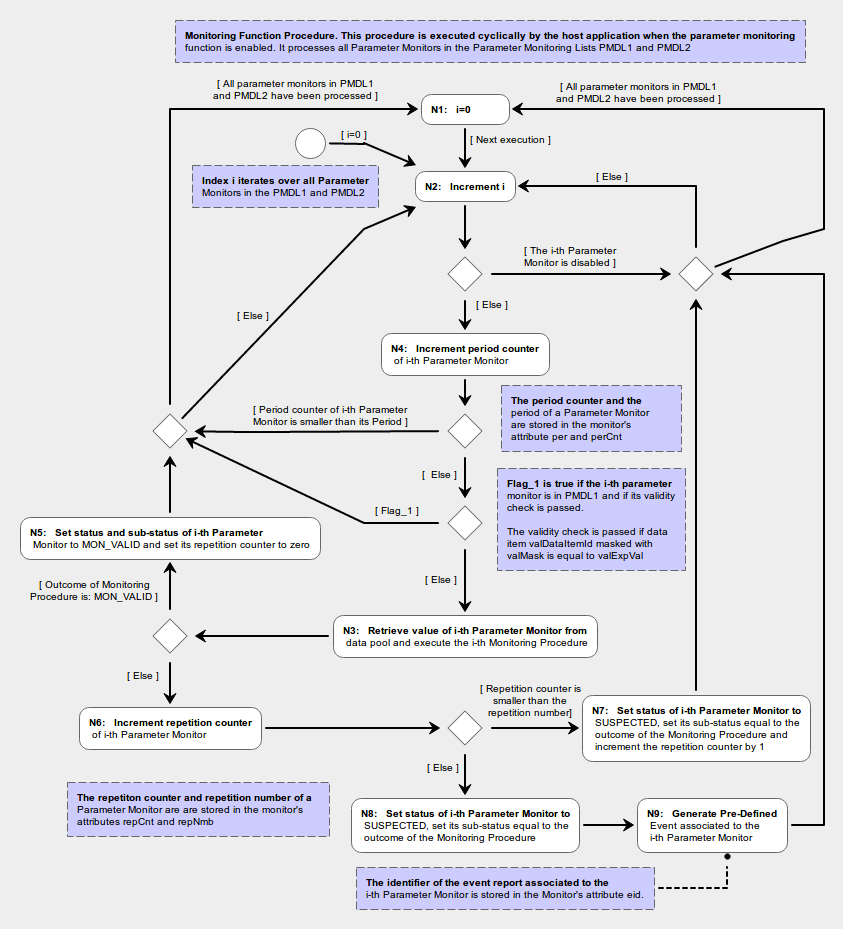
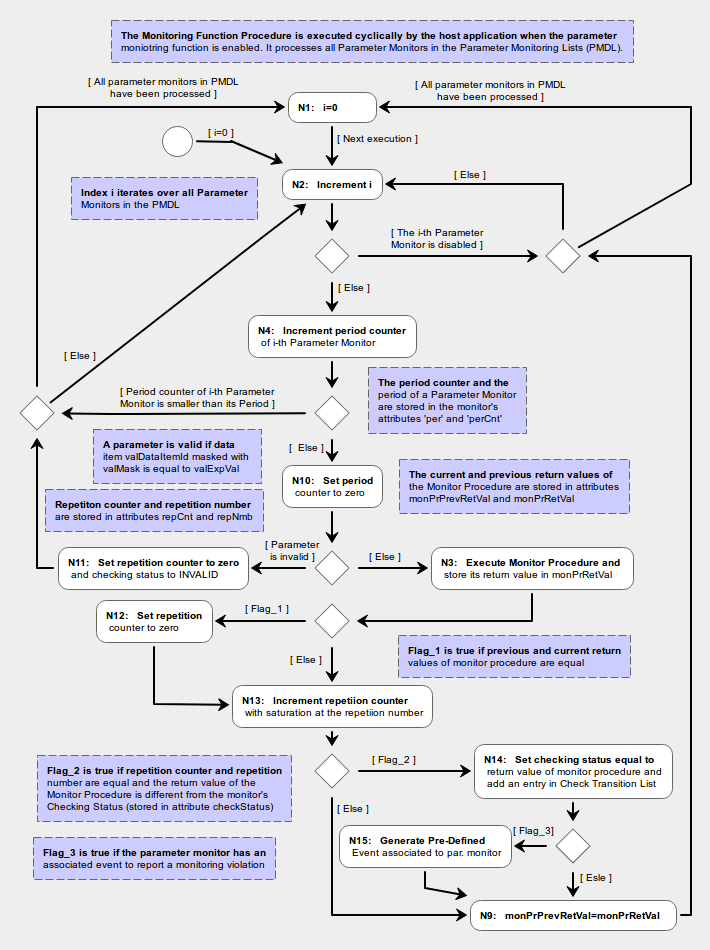
On-going definition of Service 12 (On-Board Par. Monitoring)

diff --git a/doc/pus/PusExtension.tex b/doc/pus/PusExtension.tex
@@ -1267,44 +1267,25 @@ The monitoring action is performed by a \textit{Monitor Procedure}. Thus, for in
 
 Attribute \texttt{monPrPrevRetVal} is set to INVALID when a Parameter Monitor or the Monitoring Function are enabled and subsequently holds the return value of the Monitor Procedure at the previous execution. This attribute is used by the Monitoring Function Procedure to establish the number of consecutive times that the Monitor Procedure has the same return value (e.g. the number of consecutive times that a parameter is found to be above its upper limit).
 
-After it is established that the Monitor Procedure has returned the same value \texttt{repNmb} times, this return value becomes the new checking status of the parameter monitor. The checking status is held in attribute \texttt{checkStatus}. Its range of values is given in table \ref{tab:retValMonPr}. When the checking status is updated, the following actions are taken:
-
-
-
-The value of \texttt{monPrRetVal} drives the \textit{Monitor State Machine} which, based on the monitor procedure outcome and on the repetition count for the parameter, sets its to one of the following:
+After it is established that the Monitor Procedure has returned the same value \texttt{repNmb} times, this return value becomes the new checking status of the parameter monitor. The checking status is held in attribute \texttt{checkStatus}. Its range of values is given in table \ref{tab:retValMonPr}. When the checking status is updated, the following acions are executed:
 
 \begin{itemize}
-\item MON\_UNCHECKED: the monitor procedure has not yet been run since the parameter monitoring function or the parameter monitor was last enabled 
-\item MON\_VALID: the latest execution of the monitor procedure found the parameter value to be nominal
-\item MON\_SUSPECTED: the latest execution of the monitor procedure found the parameter value to be non-nominal but the number of consecutive non-nominal outcomes is smaller than the repetition number \texttt{repNmb}
-\item MON\_INVALID: the latest execution of the monitor procedure found the parameter value to be non-nominal and the number of consecutive non-nominal outcomes is equal to or larger than the repetition number \texttt{repNmb}
+\item An entry is made in the Checking Transition List (see section \ref{sec:ChkTransList})
+\item If an event is associated to the parameter monitor (i.e. if field \texttt{evtId} in table \ref{tab:pmonAtt} is different from zero), then the Generate Prefined Event Function is called to generate the event
 \end{itemize}
 
+TBD: violation event.
 
+Parameter monitors can be individually enabled and disabled. When a parameter monitor becomes disabled, its Parameter Monitor Procedure is stopped. When a parameter monitor becomes enabled, its Parameter Monitor Procedure is started. Thus, the enable status of a parameter monitor is given by the started/stopped state of its Parameter Monitor Procedure.
 
-
-
-
-Parameter monitors can be individually enabled and disabled. When a parameter monitor becomes disabled, its Parameter Monitor State Machine and its Parameyter Monitor Procedure are stopped. When a parameter monitor becomes enabled, its Parameter Monitor State Machine and Procedure are started. Thus, the enable status of a parameter monitor is given by the started/stopped state of its Parameter Monitor State Machine and Procedure.
-
-Note that the overall enable status of a parameter monitor can be controlled at global level (the Monitoring Function Procedure is started/stopped which enables/disables the entire monitoring function) or at local level (a specific Parameter Monitor State Machine and Procedure are started/stopped).
+The overall enable status of a parameter monitor can be controlled at global level (the Monitoring Function Procedure is started/stopped which enables/disables the entire monitoring function) or at local level (a specific Parameter Monitor State Machine and Procedure are started/stopped).
 
 The Monitoring Function Procedure is executed cyclically. Individual parameter monitors may either be executed every time the procedure is executed or they may be executed only every N executions of the procedure. The value of N (a positive integer) is the period of the parameter monitor and is stored in attribute \texttt{per}. Attribute \texttt{perCnt} iterates in the range [0..(\texttt{per}-1)] and is used to keep track of the execution period of the parameter monitor.
 
-
-
-
-The behaviour of a parameter monitor is represented by the Parameter Monitor State Machine of figure TBD and is described in sub-section \ref{sec:TBD}.
-
-
-
-
-The last three attributes in the table define the validity check and are therefore only applicable to parameter monitors in the PMDL1 list. The validity check is performed by taking the value of data pool item \texttt{valDataItemId} and AND-ing it with mask \texttt{valMask}. If the result is equal to the expected value \texttt{valExpVal}, then the monitored parameter is declared to be valid and is subjected to the validity check. Otherwise, no monitoring action is applied to the parameter and its status is set to MON\_INVALID and its repetition counter is set to zero.
-
-\begin{pnptable}{|l|p{6.5cm}|>{\raggedright\arraybackslash}p{4.3cm}|}{Attributes of Parameter Monitor}{tab:pmonAtt}{\textbf{Name} & \textbf{Description} & \textbf{Constraint}}
+\begin{pnptable}{|l|p{6.5cm}|>{\raggedright\arraybackslash}p{3.3cm}|}{Attributes of Parameter Monitor}{tab:pmonAtt}{\textbf{Name} & \textbf{Description} & \textbf{Constraint}}
 \texttt{dataItemId} & Identifier of the data item monitored by the parameter monitor & Integer in range: 1..HK\_MAX\_ID \\
 \hline
-\texttt{monPrId} & Identifier of the Monitor Procedure type  which checks the parameter value & See section \ref{sec:MonProc} \\
+\texttt{monPrId} & Identifier of the Monitor Procedure which checks the parameter value & See section \ref{sec:MonProc} \\
 \hline
 \texttt{monPrType} & Identifier of the Monitor Procedure type which checks the parameter value & See section \ref{sec:MonProc} \\
 \hline
@@ -1322,6 +1303,8 @@ The last three attributes in the table define the validity check and are therefo
 \hline
 \texttt{repCnt} & The repetition counter for the monitoring check  & Integer in range: 0..(\texttt{repNmb}-1) \\
 \hline
+\texttt{evtId} & The identifier of the event to be generated if the parameter monitor detects a limit violation or zero if no event is to be generated & Zero or valid event identifier \\
+\hline
 \texttt{valDataItemId} & Identifier of data item used for validity check & Integer in range: 1..HK\_MAX\_ID \\
 \hline
 \texttt{valMask} & Mask used for validity check & Unsigned integer  \\
@@ -1331,23 +1314,16 @@ The last three attributes in the table define the validity check and are therefo
 \end{pnptable}  
 
 %=============================================================================================
-\subsubsection{Parameter Monitor State Machine}\label{sec:ParMonSM}
-The Parameter Monitor State Machine is started and stopped when the parameter monitor is, respectively, enabled and disabled and it is periodically executed by the Parameter Monitoring Function. The state machine controls the execution of the  defines the states in which a parameter monitor
-When a parameter monitor is executed, its monitor procedure is run on the current value of the parameter. 
-
-The status and sub-status of a parameter monitor are stored in attributes \texttt{status} and \texttt{subStatus}. The repetition number for the parameter is held in attribute \texttt{repNmb}. Attribute \texttt{repCnt} is the repetition counter which counts the number of consecutive non-nominal values. Its value therefore lies in the range [0..\texttt{repNmb}].
-
-If a monitoring violation is found, an event report is generated. Attributes \texttt{edi} holds the identifier of the event report.
-
-%=============================================================================================
 \subsubsection{Monitor Procedures}\label{sec:MonProc}
-The monitor procedures are responsible for checking the values of the monitored parameters and for determining whether or not they are nominal. The definition of the monitor procedures is an adaptation point for which the PUS Extension pre-defines the following default procedure types:
+The monitor procedures are responsible for checking the values of the monitored parameters and for determining whether or not they are nominal. The definition of the monitor procedures is an adaptation point for which the PUS Extension pre-defines the following options:
 
 \begin{itemize}
 \item Limit Check Monitor Procedure: verifies whether the value of the monitored parameter is within a pre-defined interval. See figure \ref{fig:MonLimCheckPr}.
 \item Expected Value Monitor Procedure: verifies whether the monitored parameter has  pre-defined value. See figure \ref{fig:MonExpValCheckPr}.
 \item Delta Check Monitor Procedure: verifies whether the difference between the current and previous value of the monitored parameter is within a pre-defined interval. See figure \ref{fig:MonDelCheckPr}.
 \end{itemize}
+
+The PUS Standard [PS=SP] asks for the delta check to be performed on a mean value computed over a variable number of consecutive samples. The Delta Check Monitor Procedure uses a first-order moving average process. This is nearly equivalent to the mean value and is much simpler to implement.
 
 To each parameter monitor, one instance of a monitor procedure is associated. The following limits apply to the number of monitor procedures of each type:
 
@@ -1378,6 +1354,33 @@ An application may define and load some parameter monitors as part of its initia
 \hline
 \end{pnptable}  
 
+%=============================================================================================
+\subsubsection{Check Transition List}\label{sec:ChkTransList}
+The Check Transition List (CTL) is a data structure consisting where the monitoring violations are accumulated. It consists of MON\_N\_CLST entries where each entry has the attributes listed in table \ref{tab:chkTransAttr}.
+
+Entries are added to the CTL by the Monitoring Function Procedure (see figure \ref{fig:MonFncPr}) when it wishes to report a monitoring violation. The CTL is cleared by the Update Action of the TBD report. This report is generated either autonomously when the list becomes full or in response to command TBD.
+
+If the list is full when the "add entry to CTL" operation is called, event EVT\_CLST\_FULL is generated.
+
+\begin{pnptable}{|l|p{6.5cm}|>{\raggedright\arraybackslash}p{3.3cm}|}{Attributes of a Check Transition}{tab:chkTransAttr}{\textbf{Name} & \textbf{Description} & \textbf{Constraint}}
+\texttt{dataItemId} & Identifier of the data item where the monitoring violation was detected & Integer in range: 1..HK\_MAX\_ID \\
+\hline
+\texttt{monId} & Identifier of the Parameter Monitor which detected the violation & Integer in range: 1..MON\_N\_PMON \\
+\hline
+\texttt{monPrType} & Identifier of the type of the Monitor Procedure which detected the violation & See section \ref{sec:MonProc} \\
+\hline
+\texttt{expValChkMask} & In the case of an Expected Value Monitor violation, the expected value check mask & See section \ref{sec:MonProc} \\
+\hline
+\texttt{parVal} & The parameter value which triggered the violation & n.a. \\
+\hline
+\texttt{parValLim} & The parameter value limit which triggered the violation & n.a. \\
+\hline
+\texttt{checkStatus} & Checking status which triggered the violation & See table \ref{tab:retValMonPr} \\
+\hline
+\texttt{prevCheckStatus} & Checking status in the cycle before the violation was detected & A CUC time value \\
+\hline
+\end{pnptable}  
+
 %-------------------------------------------------------------------------------------
 \subsection{Service 12 Report and Command Definition}\label{sec:serv12RepCmdDef}
 Tables \ref{tab:CR-S12-1} to TBD. 
@@ -1393,6 +1396,8 @@ The service 12 constants are listed in table \ref{tab:Const-S12}.
 %----------------------------------------------------------------------------------------
 \subsection{Service 12 Observables}\label{sec:serv12Obs}
 The service 12 observables are listed in table \ref{tab:Obs-S12}. The initial values of the variables carrying the number of available and enabled parameter monitors depends on the number parameter monitors which are pre-defined at initialization time (which is an adaptation point) and must therefore be done by the application as part of its initialization.
+
+The attributes of the parameter monitors are visible through service 12 reports and are therefore not defined as "observables" in the data pool.
 
 \begin{cr_obs}{S12}{Observables for Service 12 (On-Board Monitoring Service)}
 \end{cr_obs}
@@ -1417,6 +1422,38 @@ The table in this section lists the requirements for the On-Board Monitoring Ser
 \pnpfigure[scale=0.45]{Monitoring Function Procedure}{fig:MonFncPr}{CrPsMonFncPr.png}
 
 \pnpfigure[scale=0.5]{Limit Check Monitor Procedure}{fig:MonLimCheckPr}{CrPsMonLimCheckPr.png}
+
+
+\begin{figure}[H]
+ \centering
+ \includegraphics[scale=0.55,keepaspectratio=true]{CrPsMonFncPr.png}
+ \caption{Parameter Monitoring Procedure}
+ \label{fig:MonFncPr}
+\end{figure}
+
+
+\begin{figure}[H]
+ \centering
+ \includegraphics[scale=0.55,keepaspectratio=true]{CrPsMonLimCheckPr.png}
+ \caption{Limiting Check Monitor Procedure}
+ \label{fig:MonLimCheckPr}
+\end{figure}
+
+\begin{figure}[H]
+ \centering
+ \includegraphics[scale=0.55,keepaspectratio=true]{MonExpValPr.png}
+ \caption{Expected Value Monitor Procedure}
+ \label{fig:MonExpValPr}
+\end{figure}
+
+\begin{figure}[H]
+ \centering
+ \includegraphics[scale=0.55,keepaspectratio=true]{MonDeltaValPr.png}
+ \caption{Delta Value Monitor Procedure}
+ \label{fig:MonDeltaValPr}
+\end{figure}
+
+
 
 
 
